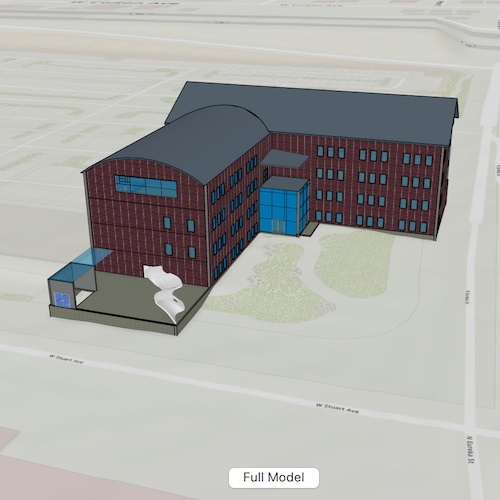
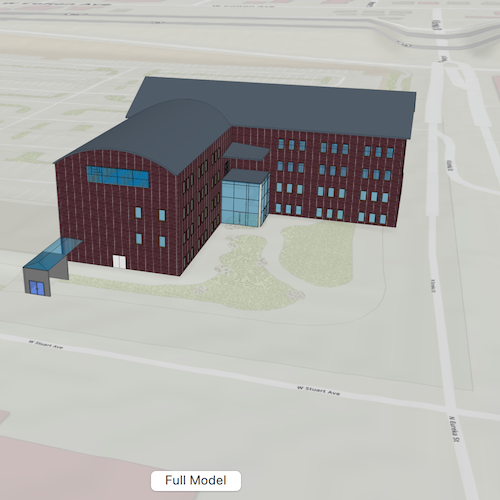
Update test data and screenshot

diff --git a/CppSamples/Layers/AddBuildingSceneLayer/AddBuildingSceneLayer.cpp b/CppSamples/Layers/AddBuildingSceneLayer/AddBuildingSceneLayer.cpp
@@ -93,7 +93,7 @@ void AddBuildingSceneLayer::setLocalSceneView(LocalSceneQuickView* localSceneVie
 
   // Adds building scene layer to scene.
   m_buildingSceneLayer = new BuildingSceneLayer(
-    QUrl("https://www.arcgis.com/home/item.html?id=e989757f7dbc460eae592eefa4562e07"), this);
+    QUrl("https://www.arcgis.com/home/item.html?id=669f6279c579486eb4a0acc7eb59d7ca"), this);
 
   m_buildingSceneLayer->setAltitudeOffset(1.0);
   m_scene->operationalLayers()->append(m_buildingSceneLayer);
